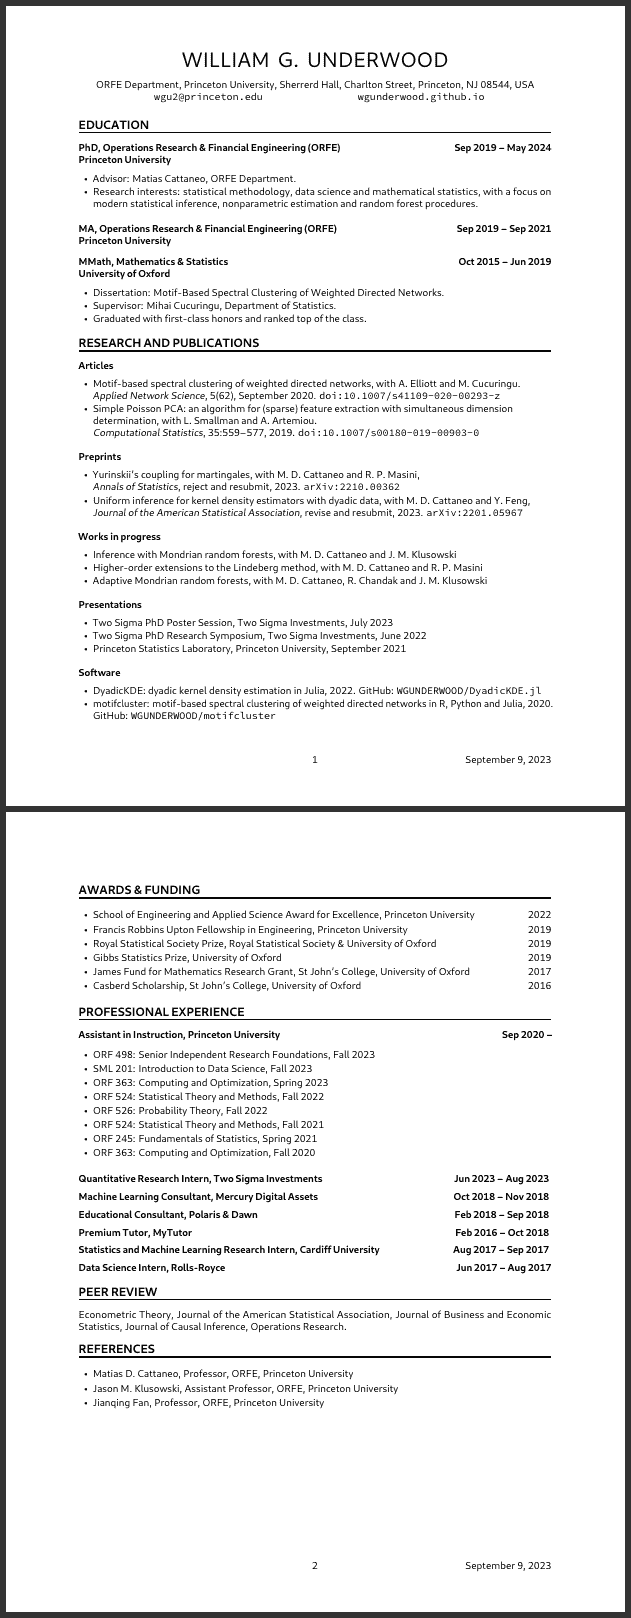
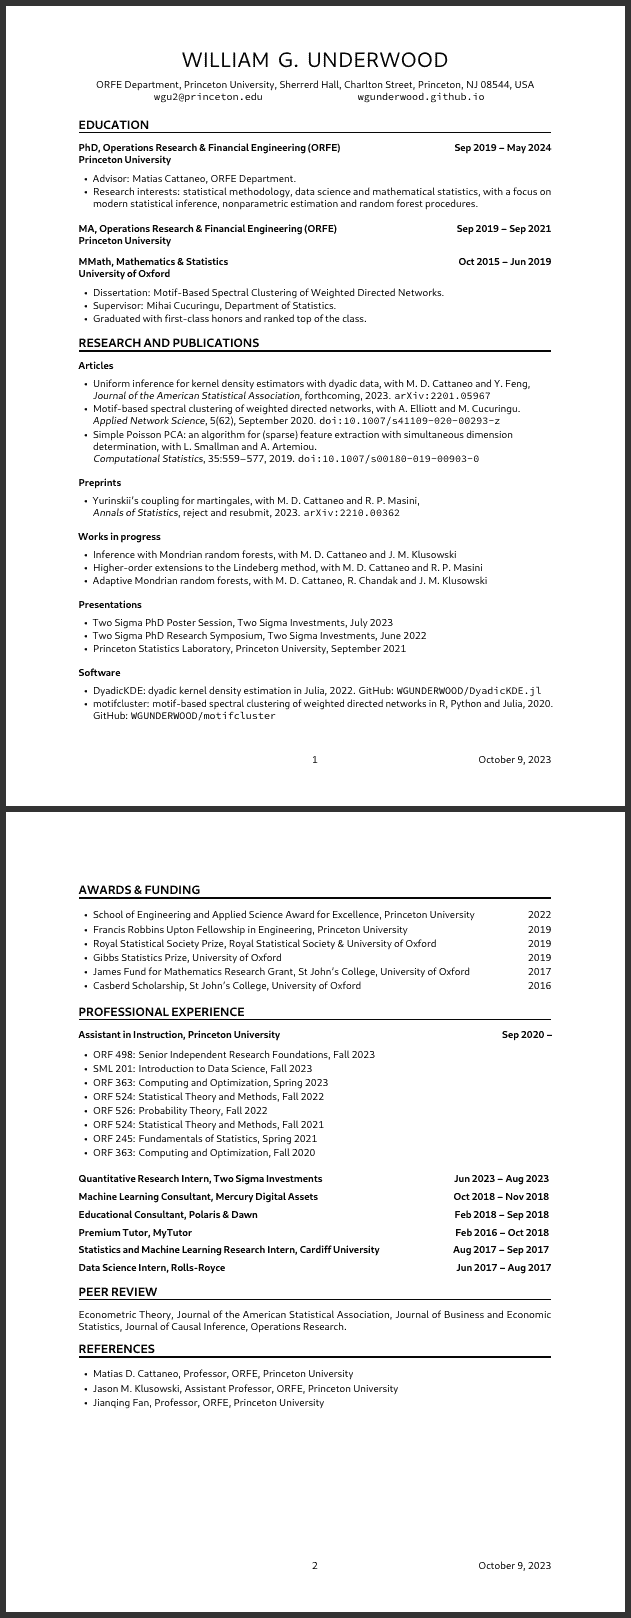
added jasa dyadic paper

Changed region(s): [[0.1204, 0.2163, 0.813, 0.3399], [0.7829, 0.309, 0.813, 0.3399]]

diff --git a/WGUnderwood.tex b/WGUnderwood.tex
@@ -86,6 +86,12 @@
 \cvsubsection{Articles}{}{}
 \begin{itemize}
 
+  \item Uniform inference for kernel density estimators with dyadic data,
+    with M.\ D.\ Cattaneo and Y.\ Feng, \\
+    \emph{Journal of the American Statistical Association}, forthcoming,
+    2023.
+    \href{https://arxiv.org/abs/2201.05967}{\texttt{arXiv{:}{\allowbreak}2201.05967}}%
+
   \item Motif-based spectral clustering of weighted directed networks,
     with A.\ Elliott and M.\ Cucuringu. \\
     \emph{Applied Network Science}, 5(62), September 2020.
@@ -106,12 +112,6 @@
     with M.\ D.\ Cattaneo and R.\ P.\ Masini, \\
     \emph{Annals of Statistics}, reject and resubmit, 2023.
     \href{https://arxiv.org/abs/2210.00362}{\texttt{arXiv{:}{\allowbreak}2210.00362}}%
-
-  \item Uniform inference for kernel density estimators with dyadic data,
-    with M.\ D.\ Cattaneo and Y.\ Feng, \\
-    \emph{Journal of the American Statistical Association}, revise and resubmit,
-    2023.
-    \href{https://arxiv.org/abs/2201.05967}{\texttt{arXiv{:}{\allowbreak}2201.05967}}%
 
 \end{itemize}
 
